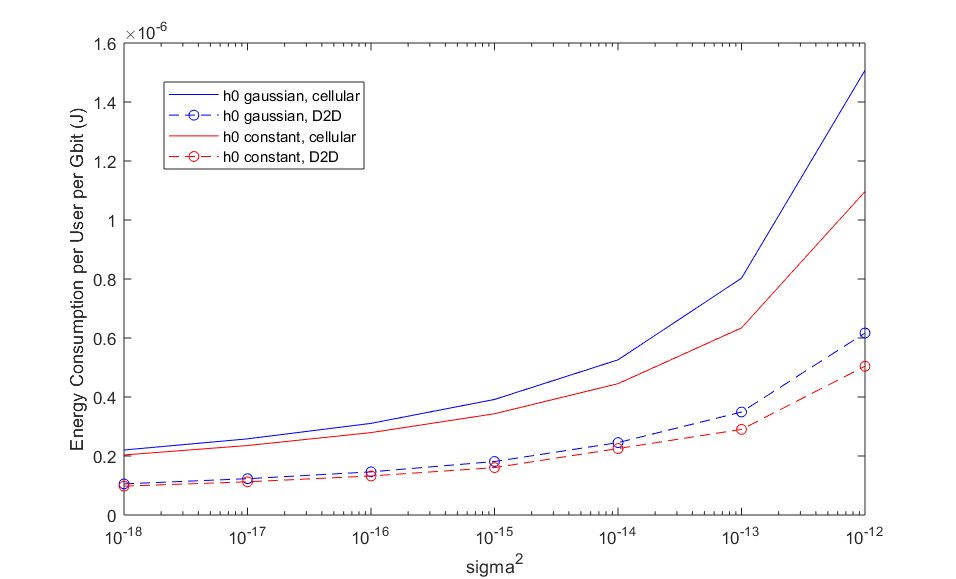
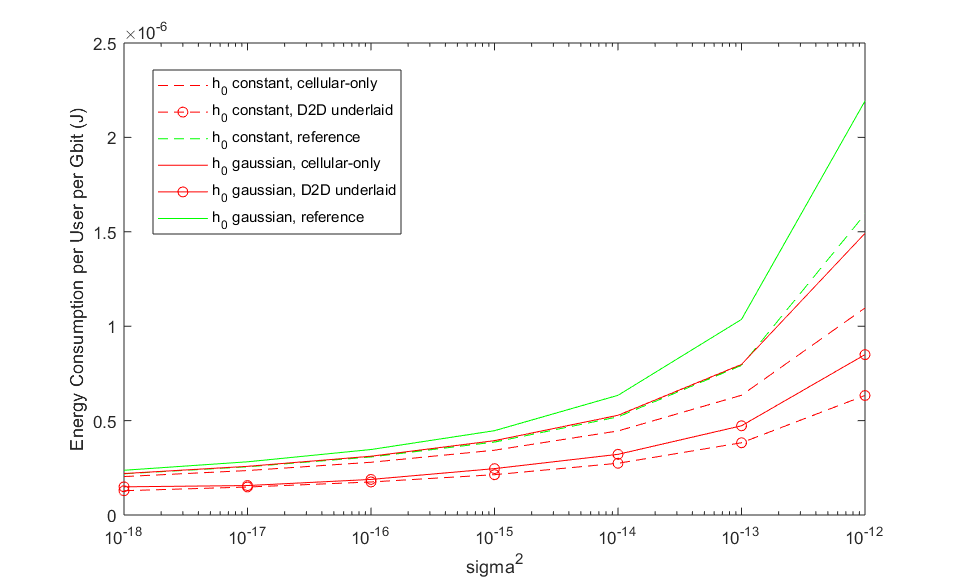
update matlab algorithms & framework

diff --git a/matlab/srt_algorithm.m b/matlab/srt_algorithm.m
@@ -1,16 +1,15 @@
 function [E_stage_2,E_stage_3,C_unsatisfied]=srt_algorithm(beta,J_range,T_range,P_i_max,P_j_max,C_qos,N,delta_t,BW,sigma2,h0)
 P=reshape([P_i_max;ones(J_range,1)*P_j_max]*ones(1,J_range*T_range),J_range+1,J_range,T_range);
+P1_tmp=linspace(0,P_i_max);P2_tmp=linspace(0,P_j_max);
 %fast fading, size(h0,3)>T_range
 T_range_h0=size(h0,3);
-multi_T=T_range_h0/T_range;
+t_step=T_range_h0/T_range;
 r=zeros(J_range+1,J_range,T_range);
 for t=(1:T_range)
-    t_h0=(t-1)*multi_T;
-    for tt_h0=(1:multi_T)
-        r(:,:,t)=r(:,:,t)+BW*log(1+P(:,:,t).*beta(:,:,t).*h0(:,:,t_h0+tt_h0).^2/sigma2)/log(2);
-    end
+    t_h0=(t-1)*t_step;
+    r(:,:,t)=sum(BW*log(1+P(:,:,t).*ones(1,1,t_step).*(beta(:,:,t).*ones(1,1,t_step)).*abs(h0(:,:,t_h0+1:t_h0+t_step)).^2/sigma2)/log(2),3);
 end
-r=r/multi_T;
+r=r/t_step;
     
     
 % r=BW*log(1+P.*beta.*h0.^2/sigma2)/log(2);
@@ -143,14 +142,6 @@ for j=(1:J_range)%for all user j
                     if t1~=t2 && sum(eta(:,j_prime_R,t1)>0)-2*(eta(0+1,j_prime_R,t1)>0)+sum(eta(j_prime_R+1,:,t1)>0)==0 && sum(sum(eta(:,:,t1)>0))-(eta(0+1,j_prime_R,t1)>0)<N && eta(0+1,j_prime_R,t1)<1 % j' free and sys availible
                         r1=r(1,j_prime_R,t1);%r1
                         if ((t1>t2 && C_tmp(j_prime_R,t2)>=r0_max*delta_t) || (t1<=t2 && C_tmp(j_prime_R,t2)+r1*delta_t>=r0_max*delta_t))
-%                             beta1=beta(0+1,j_prime_R,t1);beta2=beta(j_prime_R+1,j,t2);
-%                             h0_1=h0(0+1,j_prime_R,t1);h0_2=h0(j_prime_R+1,j,t2);
-%                             P1=(2^(r0_min*eta(0+1,j,t0)/BW)-1)*sigma2/(beta1*h0_1^2);
-%                             P2=(2^(r0_min*eta(0+1,j,t0)/BW)-1)*sigma2/(beta2*h0_2^2);
-%                             
-%                             if eta(0+1,j_prime_R,t1)+P1/P_i_max<1 && eta(j_prime_R+1,j,t2)+P2/P_j_max<1
-%                                 R=[R;[0,j_prime_R,t1,j_prime_R,j,t2]];
-%                             end
                               R=[R;[0,j_prime_R,t1,j_prime_R,j,t2]];
                         end
                     end
@@ -167,16 +158,26 @@ for j=(1:J_range)%for all user j
         for i_0=(1:length(tt0(jj0==j)))
             ttt=tt0(jj0==j);t0=ttt(i_0);
             edge0=[0,j,t0];
-            r0=r(0+1,j,t0);%r0_j(i_0);
+            
+            r0=sum(BW*log(1+P(0+1,j,t0).*ones(1,1,t_step).*(eta(0+1,j,t0).*ones(1,1,t_step)).*(beta(0+1,j,t0).*ones(1,1,t_step)).*abs(h0(0+1,j,(t0-1)*t_step+1:t0*t_step)).^2/sigma2)/log(2),3)/t_step;
+%             r0_prime=r(0+1,j,t0)*eta(0+1,j,t0);
             for i_12=(1:size(R,1))
                 edge1=R(i_12,1:3);edge2=R(i_12,4:6);
                 j_prime=edge1(2);
                 t1=edge1(3);t2=edge2(3);
-                beta1=beta(edge1(1)+1,edge1(2),edge1(3));beta2=beta(edge2(1)+1,edge2(2),edge2(3));
-                h0_1=h0(edge1(1)+1,edge1(2),edge1(3));h0_2=h0(edge2(1)+1,edge2(2),edge2(3));
-                P1=(2^(r0*eta(0+1,j,t0)/BW)-1)*sigma2/(beta1*h0_1^2);
-                P2=(2^(r0*eta(0+1,j,t0)/BW)-1)*sigma2/(beta2*h0_2^2);
-                
+                beta1=beta(0+1,j_prime,t1);beta2=beta(j_prime+1,j,t2);
+                if t_step==1
+                    h0_1=1;h0_2=1;
+                    P1=(2^(r0/BW)-1)*sigma2/(beta1*abs(h0_1)^2);%*eta(0+1,j,t0)
+                    P2=(2^(r0/BW)-1)*sigma2/(beta2*abs(h0_2)^2);%*eta(0+1,j,t0)
+                else
+                    r1_tmp=sum(BW*log(1+P1_tmp.*ones(1,1,t_step).*(beta1.*ones(1,length(P1_tmp),t_step)).*(abs(h0(0+1,j,(t0-1)*t_step+1:t0*t_step).*ones(1,length(P1_tmp),t_step))).^2/sigma2)/log(2),3)/t_step;
+                    [~,P1_index]=min(abs(r1_tmp-r0));
+                    P1=P1_tmp(P1_index);
+                    r2_tmp=sum(BW*log(1+P2_tmp.*ones(1,1,t_step).*(beta2.*ones(1,length(P2_tmp),t_step)).*(abs(h0(0+1,j,(t0-1)*t_step+1:t0*t_step).*ones(1,length(P2_tmp),t_step))).^2/sigma2)/log(2),3)/t_step;
+                    [~,P2_index]=min(abs(r2_tmp-r0));
+                    P2=P2_tmp(P2_index);
+                end
                 ii=(i_0-1)*size(R,1)+i_12;
                 if eta(0+1,j_prime,t1)+P1/P_i_max<1 && eta(j_prime+1,j,t2)+P2/P_j_max<1 && sum(eta(:,j_prime,t1)>0)-2*(eta(0+1,j_prime,t1)>0)+sum(eta(j_prime+1,:,t1)>0)==0 && sum(eta(:,j_prime,t2)>0)+sum(eta(j_prime+1,:,t2)>0)-2*(eta(j_prime+1,j,t2)>0)==0 && sum(eta(j+1,:,t2)>0)+sum(eta(:,j,t2)>0)-2*(eta(j_prime+1,j,t2)>0)==0 && sum(sum(eta(:,:,t2)>0))-(eta(j_prime+1,j,t2)>0)<N && sum(sum(eta(:,:,t1)>0))-(eta(0+1,j_prime,t1)>0)<N
                     delta_P(ii,:)=[P1,P2,P_i_max-(P1+P2)];

diff --git a/matlab/ref_algorithm.m b/matlab/ref_algorithm.m
@@ -2,15 +2,13 @@ function [E_stage_1,C_unsatisfied]=ref_algorithm(beta,J_range,T_range,P_i_max,P_
 P=reshape([P_i_max;ones(J_range,1)*P_j_max]*ones(1,J_range*T_range),J_range+1,J_range,T_range);
 %fast fading, size(h0,3)>T_range
 T_range_h0=size(h0,3);
-multi_T=T_range_h0/T_range;
+t_step=T_range_h0/T_range;
 r=zeros(J_range+1,J_range,T_range);
 for t=(1:T_range)
-    t_h0=(t-1)*multi_T;
-    for tt_h0=(1:multi_T)
-        r(:,:,t)=r(:,:,t)+BW*log(1+P(:,:,t).*beta(:,:,t).*h0(:,:,t_h0+tt_h0).^2/sigma2)/log(2);
-    end
+    t_h0=(t-1)*t_step;
+    r(:,:,t)=sum(BW*log(1+P(:,:,t).*ones(1,1,t_step).*(beta(:,:,t).*ones(1,1,t_step)).*abs(h0(:,:,t_h0+1:t_h0+t_step)).^2/sigma2)/log(2),3);
 end
-r=r/multi_T;
+r=r/t_step;
 
 
 % r=BW*log(1+P.*beta.*h0.^2/sigma2)/log(2);
